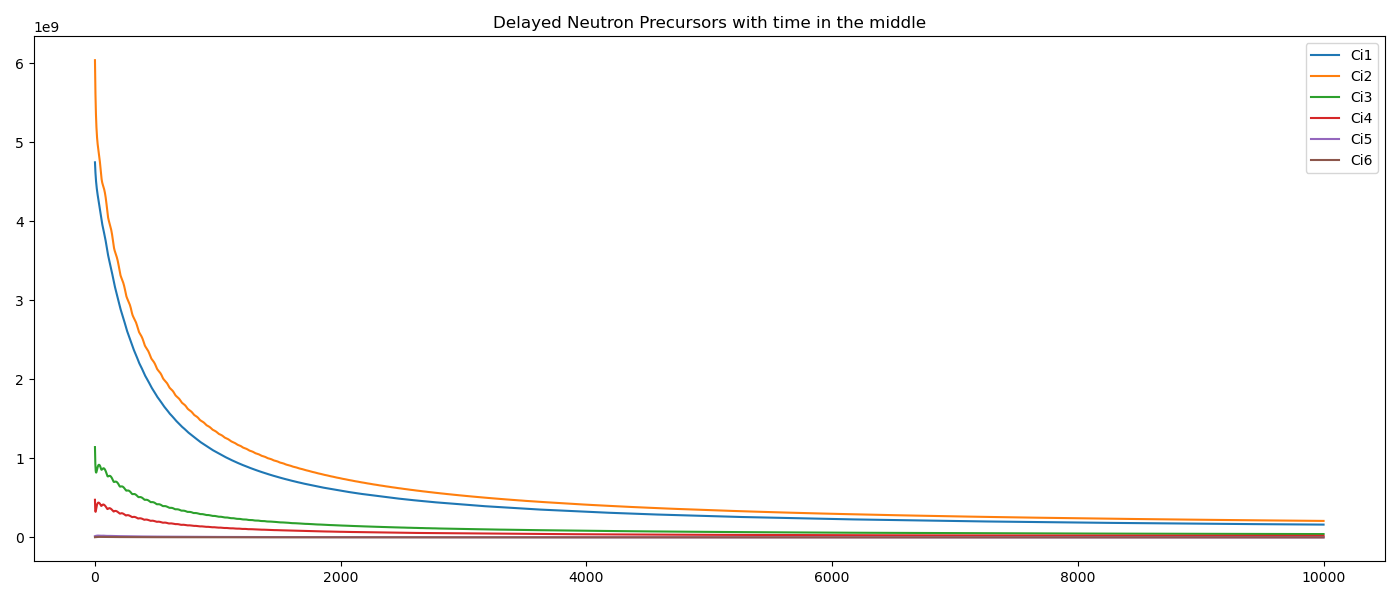
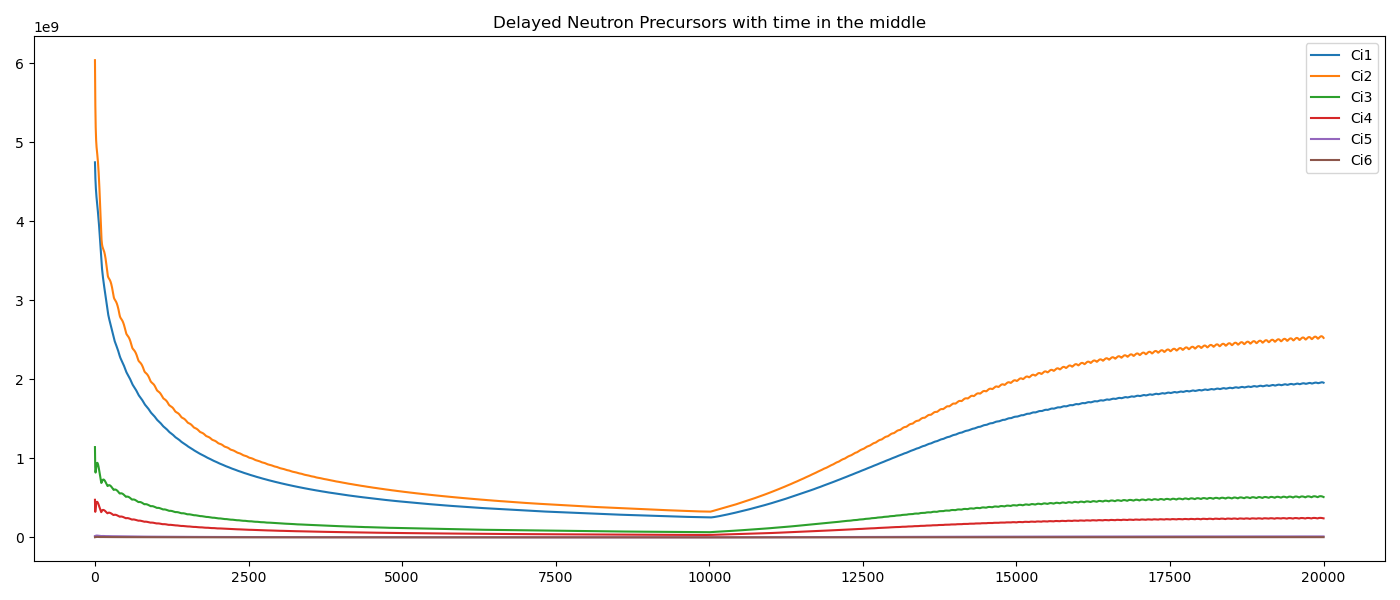
add insertion

diff --git a/parameters.py b/parameters.py
@@ -5,8 +5,10 @@ def generate_parameters(
     dt=0.1, # fixed time step, 0.5
     L = 172,  # Length of the spatial domain, cm
     # L = 22.9
-    N = 172,  # Number of spatial points
-    volume = 18 * 1e3, # volume of reactor
+    N = 200,  # Number of spatial points
+    A = 4094,  # Area of the reactor, cm^2
+    flux_to_power = 3.12e10,    # 3.12e10, fissions/watt-sec
+    # volume = 18 * 1e3, # volume of reactor
     # V = 4e5
     V = 1.103497 * 1e7,  # cm/s   
     # V = 2.2e5,        
@@ -35,11 +37,11 @@ def generate_parameters(
     # Thermal-Hydraulics
     c_p_s = 2090,  # 1983, Specific heat of primary salt, J/kgK
     c_p_g = 1757,    # 1757, Specific heat of graphite, J/kg K
-    # Vc = 0.2,    # Salt velocity in the core, m/s
-    Vc = 0.2,
+    Vc = 0.2,    # Salt velocity in the core, m/s
+    # Vc = 20,
     Ms = 1448,   # 1448, Fuel salt mass in the core, kg
     Mg = 3687,   # 3687, Mass of graphite in the core, kg
-    gamma = 0.9,    # 0.93, Fraction of power released in the salt
+    gamma = 0.93,    # 0.93, Fraction of power released in the salt
     U = 36000,   # Overall heat transfer coefficient between salt and graphite, W/K
     # U = 1800,
     # Temp input for test:
@@ -47,25 +49,26 @@ def generate_parameters(
     # q_prime=Amplitude * sin(pi * linspace(0, L, N) / L)';
     # q_prime=Amplitude;
     # Boundary conditions
-    bc_s0 = 910,
-    bc_sL = 958.15,
-    bc_g0 = 920,
-    bc_gL = 968.71,
+    # bc_s0 = 910,
+    # bc_sL = 958.15,
+    # bc_g0 = 920,
+    # bc_gL = 968.71,
+    # s_ref = 
     # bc_s0 = 922,
     # bc_sL = 976,
     # bc_g0 = 925,
     # bc_gL = 993,
-    # bc_s0 = 0,
-    # bc_sL = 0,
-    # bc_g0 = 0,
-    # bc_gL = 0,
+    bc_s0 = 700,
+    bc_sL = 800,
+    bc_g0 = 700,
+    bc_gL = 1000,
     # Initial conditions
     # initialS = (bc_s0 + (bc_sL - bc_s0) * (0.5 + 0.5 * np.sin(np.pi * (np.linspace(0, L, N) ) / (L*2))) * 0.8).T
     # initialG = (bc_g0 + (bc_gL - bc_g0) * (0.5 + 0.5 * np.sin(np.pi * (np.linspace(0, L, N) ) / (L*2))) * 1.05).T
     # referenceS=930
     # referenceG=931.15
     # Heat Exchanger 1
-    err = 1,
+    err = 0,
     # Nx = N  # Number of spatial points
     L_HX = 2,    # length of the spatial domain
     # dx = L / (N - 1)    # Spatial step size
@@ -77,8 +80,12 @@ def generate_parameters(
     M_he_ss = 117,   # Mass of salt in the heat exchanger (coolant side), kg
     c_p_ss = 2416,   # Specific heat of secondary salt, J/kg/K
     # Initial conditions
-    u_L = 900.15,
-    u_H = 958,
+    # u_L = 900.15,
+    # u_H = 958,
+    # v_L = 824.85,
+    # v_H = 866.45,
+    u_L = 800,
+    u_H = 800,
     v_L = 824.85,
     v_H = 866.45,
     # u_L = 0,
@@ -115,13 +122,13 @@ def generate_parameters(
 
     # Transport Delays
     # Pure time delays between components
-    tau_hx_c = 9, # (sec) delay from hx to core TDAMSRE p.6
+    tau_hx_c = 4, # (sec) delay from hx to core TDAMSRE p.6
     tau_c_hx = 4, # (sec) subtracted 1 sec for external loop power generation node resident time; delay from core to fuel hx TDAMSRE p.6
     tau_hx_r = 5, # (sec) fertile hx to core TDAMSRE p.6
     tau_r_hx = 8, # (sec) core to fertile hx TDAMSRE p.6
     tau_r_pp = 6, # TODO:delay from HX2 to the power plant, to be fixed
     tau_pp_r = 6, # TODO:delay from the power plant to HX2, to be fixed
-    scale = 0,
+    scale = 1,
     ):
     
     dz = L / (N - 1)  # Spatial step size, m
@@ -154,9 +161,11 @@ def generate_parameters(
     return {
         'dt': dt,
         'L': L,
-        'volume': volume,
+        # 'volume': volume,
         'N': N,
         'dz': dz,
+        'flux_to_power': flux_to_power,
+        'A': A,
         'V': V,
         'D': D,
         'sigma_a': sigma_a,

diff --git a/main.py b/main.py
@@ -13,12 +13,12 @@ from transport_delay import transport_delay
 from power_plant import power_plant_temp
 
 def run_simulation(params, index):
-    time_span = 200000
+    time_span = 50000
     N = params['N']
     Nx = params['Nx']
 
     # Extract parameters
-    rho_insertion = 0 * np.ones(N)     # pcm
+    rho_insertion = -50 * np.ones(N)     # pcm
     rho = params['rho_init'] * np.ones(N)
     # rho = 0 * np.ones(N)
     y_n = np.zeros((7 * N, 1))
@@ -61,7 +61,7 @@ def run_simulation(params, index):
         print(f'Step {step}/{time_span}')
         
         y_n, q_prime = neutronics(y_n[:, -1], rho, step, params)
-        q_prime = q_prime * params['sigma_f'] * params['volume'] / (3.12e10)
+        q_prime = q_prime * params['sigma_f'] * params['A'] / (params['flux_to_power'])
         phi = y_n[:N, -1].T
         ci = y_n[N:, -1].T
         phi_middle_matrix[step] = phi[int(N / 2)]
@@ -79,7 +79,7 @@ def run_simulation(params, index):
 
         Ts_core_0 = transport_delay(Ts_HX1_0, params['tau_hx_c'], Ts_in, buffer_hx_c, step)
         y_th = thermal_hydraulics(y_th, q_prime, Ts_core_0, params, step)
-        if step % 50 == 0:
+        if step % 100 == 0:
             temperature_fuel_r=y_th[:N,-1].T
             temperature_graphite_r=y_th[N:,-1].T
         temperature_fuel = y_th[:N, -1].T

diff --git a/thermal_hydraulics.py b/thermal_hydraulics.py
@@ -23,6 +23,7 @@ def thermal_hydraulics(y_th, q_prime, Ts_core_0, params, step):
     bc_gL = params['bc_gL']
     initialS = params['initialS']
     initialG = params['initialG']
+    err=params['err']
     
     # parameters transformation
     a_th = Vc
@@ -54,8 +55,8 @@ def thermal_hydraulics(y_th, q_prime, Ts_core_0, params, step):
         # print("testThermal")
         temperature_fuel = y[:N]
         temperature_graphite = y[N:]
-        temperature_fuel_dt = a_th * (AT_sparse @ temperature_fuel) + b_th * (temperature_graphite-temperature_fuel)+d_th*q_prime.T
-        temperature_graphite_dt = c_th * (temperature_fuel-temperature_graphite) + e_th * q_prime.T
+        temperature_fuel_dt = a_th * (AT_sparse @ temperature_fuel) + b_th * (temperature_graphite-temperature_fuel)+d_th*q_prime.T + err
+        temperature_graphite_dt = c_th * (temperature_fuel-temperature_graphite) + e_th * q_prime.T + err
         # print(f'd_th: {d_th*q_prime.T}')
         # print(f'e_th: {d_th*q_prime.T}')
         # Apply time-varying boundary conditions

diff --git a/reactivity.py b/reactivity.py
@@ -60,7 +60,7 @@ def reactivity(temperature_fuel_r, temperature_graphite_r, temperature_fuel, tem
         
     rho_feedback=(temperature_fuel_r-temperature_fuel)*alpha_f+(temperature_graphite_r-temperature_graphite)*alpha_g
     # rho_feedback = rho_feedback *0
-    rho=rho_0+rho_feedback*0.1+react
+    rho=rho_0+rho_feedback*scale+react
     
     # rho=rho_init * np.ones(N)
     
